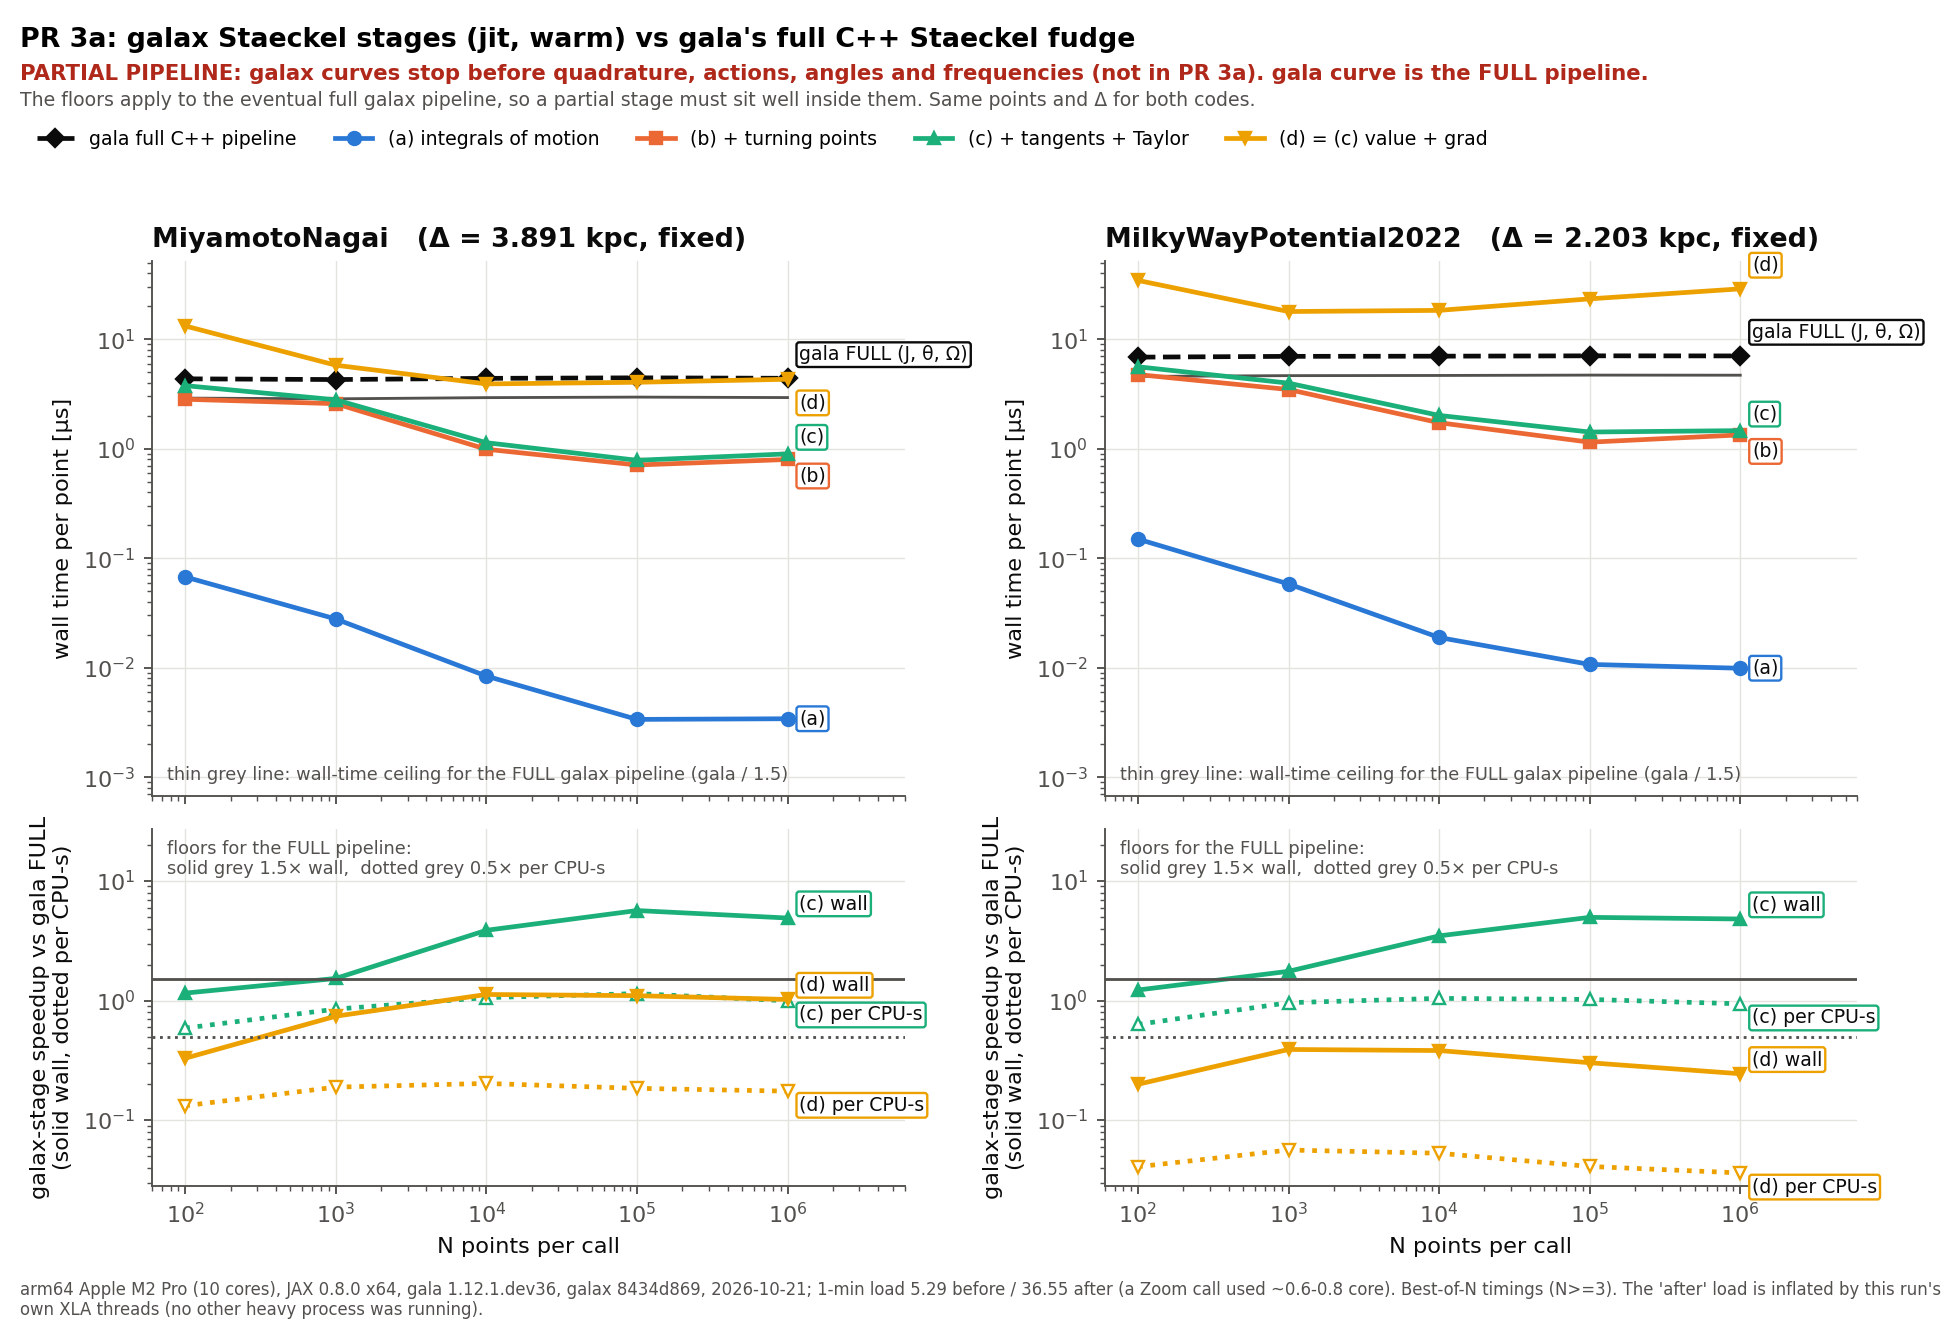
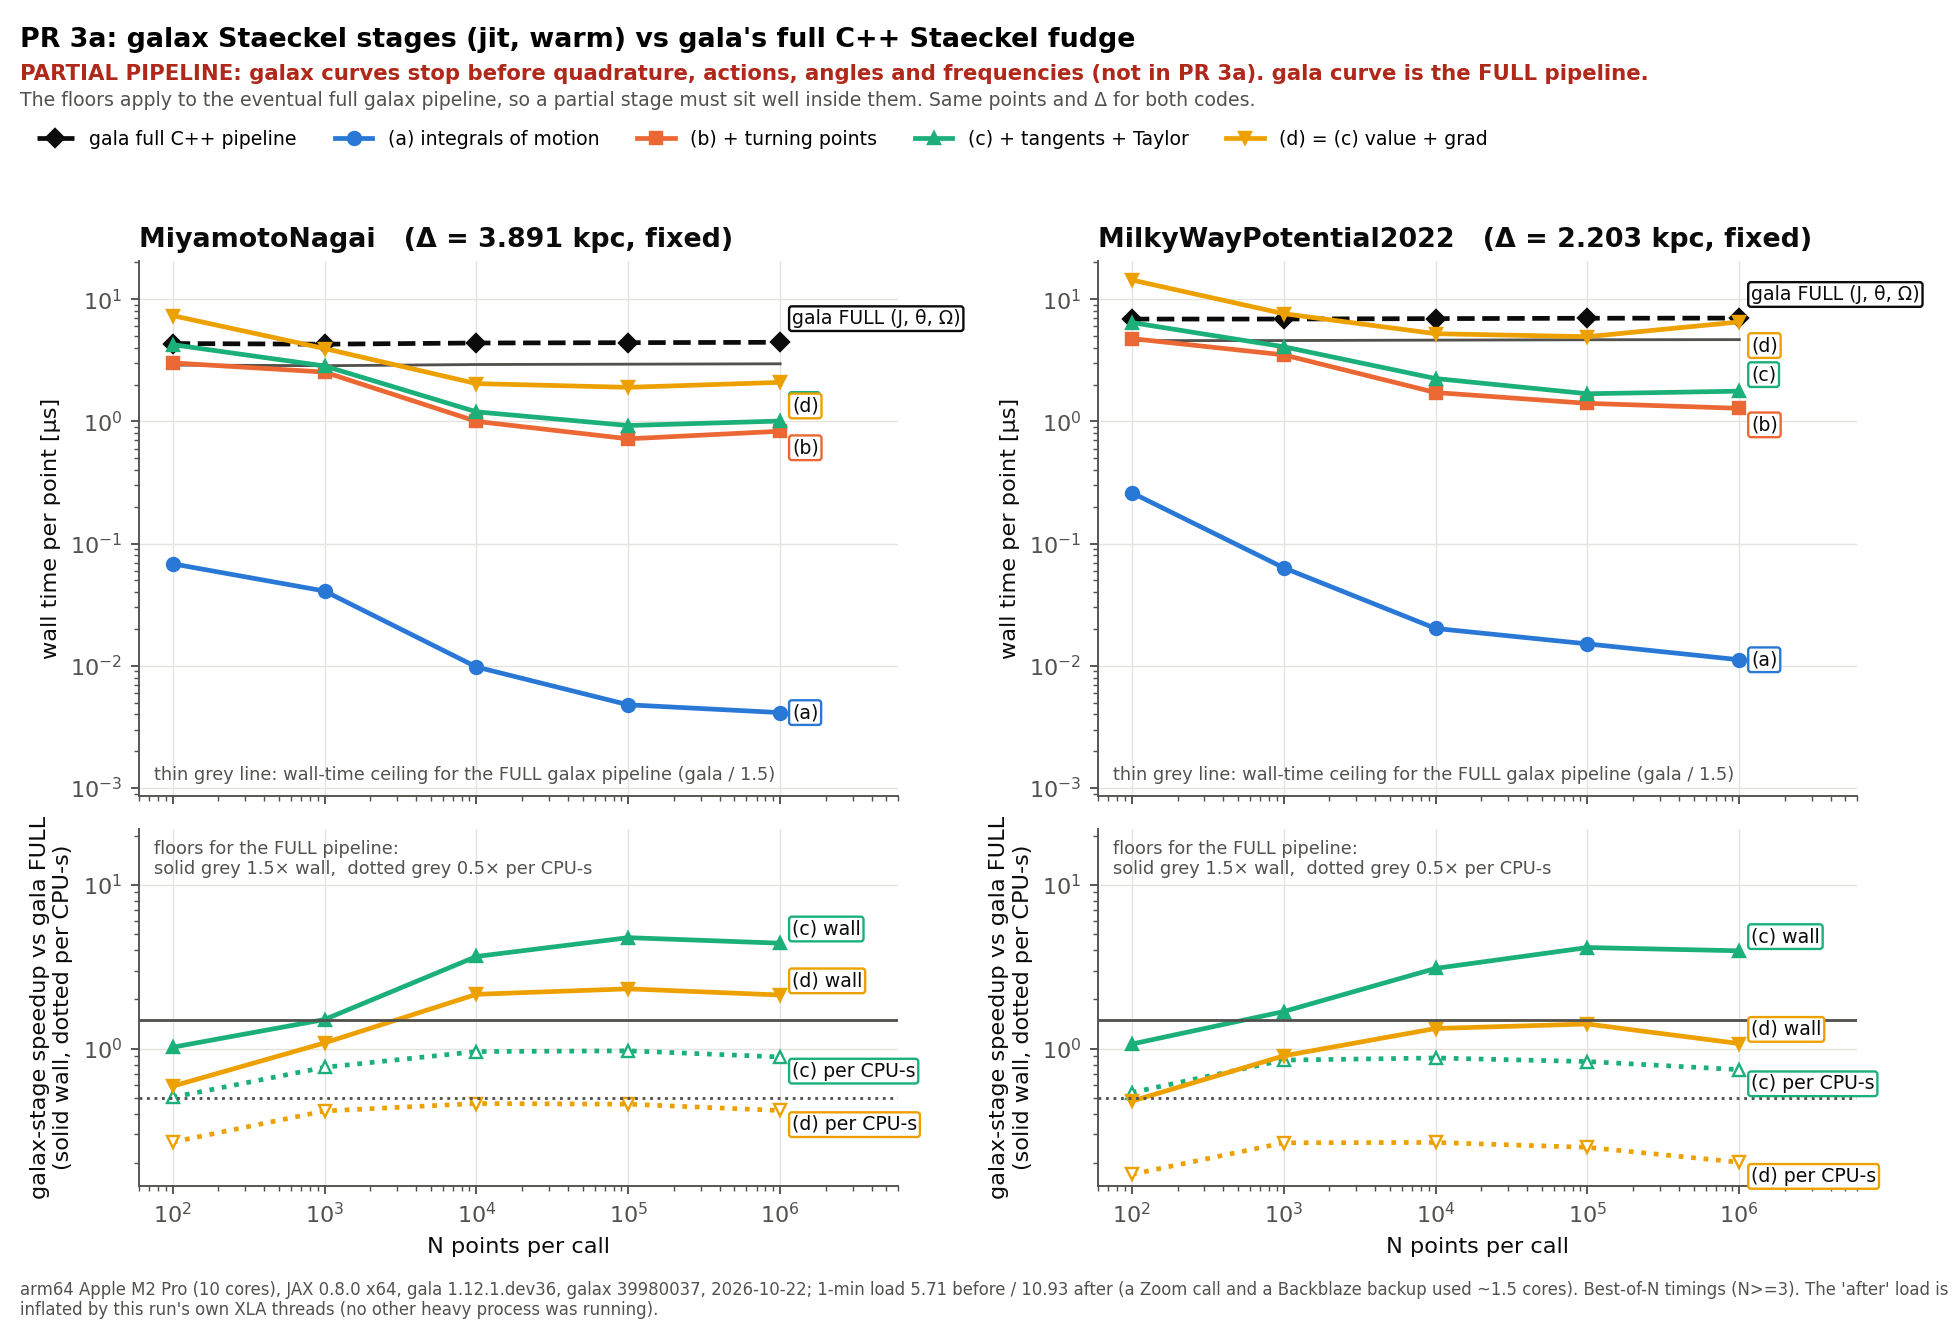
📊 Re-run the PR 3a Staeckel-stage benchmark at 39980037

diff --git a/staeckel/bench/bench_staeckel_limits.py b/staeckel/bench/bench_staeckel_limits.py
@@ -1,6 +1,6 @@
 """PR 3a: galax Staeckel stages (partial pipeline) vs gala's full C++ Staeckel fudge.
 
-Run from the staeckel/3a-limits worktree (galax @ 8434d869), with gala's Staeckel
+Run from the staeckel/3a-limits worktree (galax @ 39980037), with gala's Staeckel
 C++ extension build first on the path:
 
     cd <galax worktree> && PYTHONPATH=<gala build/lib.macosx-11.0-arm64-cpython-312> \
@@ -30,7 +30,7 @@ from gala.units import galactic
 
 import galax.potential as gp
 import unxt as u
-from galax.dynamics._src.actionangle._staeckel_core import integrals_of_motion, make_F
+from galax.dynamics._src.actionangle._staeckel_prolate import integrals_of_motion, make_F
 from galax.dynamics._src.actionangle._staeckel_limits import (
     attach_tangents,
     default_phi_inf,

diff --git a/staeckel/bench/plot_bench.py b/staeckel/bench/plot_bench.py
@@ -42,7 +42,7 @@ def caption(fig, env, extra=""):
     fig.text(0.01, 0.005,
              f"{env['machine']} ({env['ncpu']} cores), JAX {env['jax']} x64, gala {env['gala']}, "
              f"galax {env['galax_commit']}, {env['date'][:10]}; {load_avgs(env)} "
-             f"(a Zoom call used ~0.6-0.8 core). Best-of-N timings (N>=3). {extra}",
+             f"(a Zoom call and a Backblaze backup used ~1.5 cores). Best-of-N timings (N>=3). {extra}",
              fontsize=7, color=MUTED, ha="left", va="bottom", wrap=True)
 
 

diff --git a/staeckel/bench/README.md b/staeckel/bench/README.md
@@ -15,7 +15,7 @@ B=$S/bench
 cd $S/pr964
 JAX_ENABLE_X64=1 .venv/bin/python $B/bench_delta.py
 
-# PR 3a (galax @ 8434d869); gala's Staeckel C++ build goes first on the path
+# PR 3a (galax @ 39980037); gala's Staeckel C++ build goes first on the path
 cd /Users/nmrs/local/galax/.claude/worktrees/relaxed-feistel-18a2be
 PYTHONPATH=/Users/nmrs/.cache/uv/git-v1/checkouts/aa61f6cc8cf2ca48/6cd50cef/build/lib.macosx-11.0-arm64-cpython-312 \
   JAX_ENABLE_X64=1 PYTHONDONTWRITEBYTECODE=1 uv run --frozen python $B/bench_staeckel_limits.py
@@ -52,7 +52,7 @@ galax and gala versions with the same parameters.
 
 Δ is fixed per potential at `staeckel_fudge_delta` evaluated at (R, z) = (8, 0.5) kpc,
 and both codes get the same Δ. The galax stages use the private functions in
-`_staeckel_core.py` and `_staeckel_limits.py`. Each stage is `jax.jit(jax.vmap(...))`,
+`_staeckel_prolate.py` and `_staeckel_limits.py`. Each stage is `jax.jit(jax.vmap(...))`,
 compiled ahead of time, and timed warm. The stages are cumulative:
 
 - **(a)** `integrals_of_motion`.
